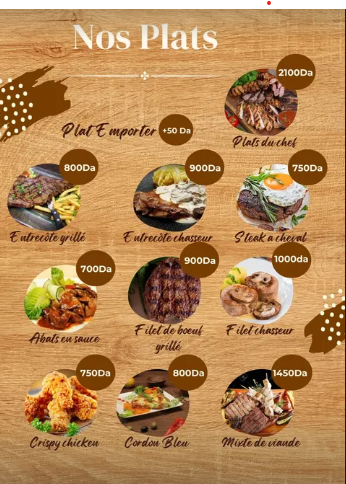
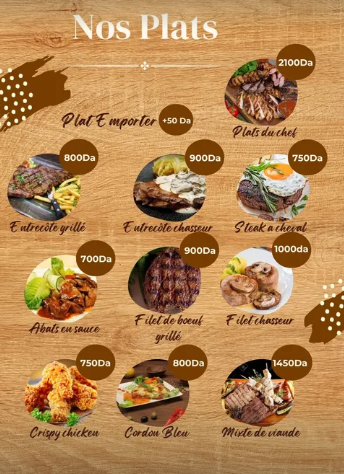
update: organize menu cards

diff --git a/src/components/MenuPage.tsx b/src/components/MenuPage.tsx
@@ -1,15 +1,14 @@
 import { useState } from 'react';
-import { Sparkles } from 'lucide-react';
-import { getMenuCategories } from '../data';
+import { MENU_IMAGE_GROUPS } from '../menuImageData';
 import { useLanguage } from '../context/LanguageContext';
-import FoodCard from './FoodCard';
 import MarqueeRibbon from './MarqueeRibbon';
+import MenuImageLayout from './MenuImageLayout';
 
 export default function MenuPage() {
   const { language, t } = useLanguage();
   const [selectedCategory, setSelectedCategory] = useState<string>('all');
 
-  const categories = getMenuCategories(language);
+  const categories = MENU_IMAGE_GROUPS;
 
   const filteredCategories =
     selectedCategory === 'all'
@@ -97,36 +96,7 @@ export default function MenuPage() {
 
       {/* Main Categories Section */}
       <main className="flex-1 max-w-7xl w-full mx-auto px-4 sm:px-6 md:px-12 py-12 sm:py-16">
-        {filteredCategories.map((category) => (
-          <section
-            key={category.id}
-            id={`category-${category.id}`}
-            className="mb-14 sm:mb-20 scroll-mt-24"
-          >
-            {/* Category Header: #4b1007 text with Yellow Background */}
-            <div className="bg-[#FCD306] text-[#4b1007] px-5 sm:px-8 py-3 sm:py-4 rounded-xl shadow-sm mb-6 sm:mb-8 flex flex-col sm:flex-row sm:items-center justify-between gap-2 border border-[#e6bd02]">
-              <div className="flex items-center gap-3">
-                <h2 className="font-novecento text-3xl sm:text-4xl md:text-5xl uppercase tracking-wider font-normal leading-none text-[#4b1007]">
-                  {category.name}
-                </h2>
-                <span className="text-xs sm:text-sm bg-[#4b1007] text-[#FCD306] px-2.5 py-0.5 rounded-md tracking-widest font-normal">
-                  {category.items.length} {t.menuPage.options}
-                </span>
-              </div>
-              <div className="flex items-center gap-2 text-[#4b1007] text-xs sm:text-sm md:text-base tracking-wider uppercase">
-                <Sparkles className="w-4 h-4 text-[#4b1007] hidden sm:inline" />
-                <span>{category.tagline}</span>
-              </div>
-            </div>
-
-            {/* Grid of Food Cards */}
-            <div className="grid grid-cols-1 sm:grid-cols-2 lg:grid-cols-3 xl:grid-cols-4 gap-6 sm:gap-8">
-              {category.items.map((item) => (
-                <FoodCard key={item.id} item={item} />
-              ))}
-            </div>
-          </section>
-        ))}
+        <MenuImageLayout groups={filteredCategories} />
 
         {/* Bottom CTA Box after all cards */}
         <div className="mt-16 sm:mt-24 mb-6 text-center bg-[#4b1007] text-white p-8 sm:p-12 rounded-2xl border border-[#350b05] shadow-2xl max-w-3xl mx-auto">

diff --git a/src/components/FoodCard.tsx b/src/components/FoodCard.tsx
@@ -1,61 +1,25 @@
-import { Star } from 'lucide-react';
-import { MenuItem } from '../types';
+import { MenuImageItem } from '../menuImageData';
 
 interface FoodCardProps {
   key?: string | number;
-  item: MenuItem;
+  item: MenuImageItem;
 }
 
 export default function FoodCard({ item }: FoodCardProps) {
   return (
     <article
       id={`menu-item-${item.id}`}
-      className="bg-transparent flex flex-col group"
+      className="bg-white border-2 border-[#8e7b6d] rounded-xl overflow-hidden flex flex-col group shadow-sm hover:shadow-md transition-shadow"
     >
-      {/* Image Container with hover zoom */}
-      <div className="w-full aspect-square rounded-2xl overflow-hidden bg-stone-200 shadow-sm transition-shadow group-hover:shadow-md relative">
+      <div className="w-full overflow-hidden bg-white relative">
         <img
           src={item.image}
-          alt={item.name}
-          referrerPolicy="no-referrer"
+          alt={item.alt}
           onError={(event) => {
-            event.currentTarget.src =
-              'https://images.unsplash.com/photo-1564419320461-6870880221ad?auto=format&fit=crop&w=800&q=80';
+            event.currentTarget.style.display = 'none';
           }}
-          className="w-full h-full object-cover object-center transform group-hover:scale-105 transition-transform duration-300"
+          className="block w-full h-auto object-contain transform group-hover:scale-[1.02] transition-transform duration-300"
         />
-      </div>
-
-      {/* Card Information - Strictly Bebas Neue */}
-      <div className="pt-3.5 flex flex-col flex-1">
-        <h3 className="text-xl sm:text-2xl text-[#4b1007] tracking-wider uppercase font-normal">
-          {item.name}
-        </h3>
-        <p className="font-inter text-stone-600 text-xs sm:text-sm mt-1 leading-snug tracking-normal line-clamp-2">
-          {item.description}
-        </p>
-
-        {/* Stronger stroke line on top of the stars and the price */}
-        <div className="mt-3.5 pt-2.5 border-t-2 border-[#8e7b6d] flex items-center justify-between">
-          <div
-            aria-label={`${item.rating} stars`}
-            className="flex text-[#b81414] space-x-1"
-          >
-            {[1, 2, 3, 4, 5].map((star) => (
-              <Star
-                key={star}
-                className={`w-4 h-4 ${
-                  star <= item.rating
-                    ? 'fill-[#b81414] text-[#b81414]'
-                    : 'text-stone-300 fill-transparent'
-                }`}
-              />
-            ))}
-          </div>
-          <span className="text-xl sm:text-2xl text-[#b81414] font-normal tracking-wide">
-            {item.price} DA
-          </span>
-        </div>
       </div>
     </article>
   );

diff --git a/src/components/MenuSection.tsx b/src/components/MenuSection.tsx
@@ -1,11 +1,8 @@
-import { Sparkles } from 'lucide-react';
-import { getMenuCategories } from '../data';
-import { useLanguage } from '../context/LanguageContext';
-import FoodCard from './FoodCard';
+import { MENU_IMAGE_GROUPS } from '../menuImageData';
+import MenuImageLayout from './MenuImageLayout';
 
 export default function MenuSection() {
-  const { language } = useLanguage();
-  const categories = getMenuCategories(language);
+  const categories = MENU_IMAGE_GROUPS;
 
   return (
     <section
@@ -27,43 +24,7 @@ export default function MenuSection() {
           </p>
         </div>
 
-        {/* Categories & Products */}
-        <div className="space-y-16 sm:space-y-20">
-          {categories.map((category) => (
-            <div
-              key={category.id}
-              id={`category-${category.id}`}
-              className="scroll-mt-28"
-            >
-              {/* Category Banner with Title and Inter-font Tagline Description */}
-              <div className="bg-[#FCD306] text-[#4b1007] px-5 sm:px-8 py-3.5 sm:py-4 rounded-xl shadow-sm mb-6 sm:mb-8 flex flex-col sm:flex-row sm:items-center justify-between gap-2 border border-[#e6bd02]">
-                <div className="flex items-center gap-3">
-                  <h3 className="font-novecento text-3xl sm:text-4xl md:text-5xl uppercase tracking-wider font-normal leading-none text-[#4b1007]">
-                    {category.name}
-                  </h3>
-                  <span className="text-xs sm:text-sm bg-[#4b1007] text-[#FCD306] px-2.5 py-0.5 rounded-md tracking-widest font-normal">
-                    {category.items.length} OPTIONS
-                  </span>
-                </div>
-
-                {/* Subtitle / Tagline in Inter typeface */}
-                <div className="flex items-center gap-2 text-[#4b1007]">
-                  <Sparkles className="w-4 h-4 text-[#4b1007] shrink-0 hidden sm:inline" />
-                  <p className="font-inter text-xs sm:text-sm font-medium leading-tight">
-                    {category.tagline}
-                  </p>
-                </div>
-              </div>
-
-              {/* Responsive Grid of Food Cards */}
-              <div className="grid grid-cols-1 sm:grid-cols-2 lg:grid-cols-3 xl:grid-cols-4 gap-6 sm:gap-8">
-                {category.items.map((item) => (
-                  <FoodCard key={item.id} item={item} />
-                ))}
-              </div>
-            </div>
-          ))}
-        </div>
+        <MenuImageLayout groups={categories} />
       </div>
     </section>
   );

diff --git a/src/components/MenuImageLayout.tsx b/src/components/MenuImageLayout.tsx
@@ -1,0 +1,76 @@
+import { Sparkles } from 'lucide-react';
+import { MenuImageGroup } from '../menuImageData';
+import FoodCard from './FoodCard';
+
+interface MenuImageLayoutProps {
+  groups: MenuImageGroup[];
+  optionsLabel?: string;
+}
+
+const ROWS = [
+  ['pizza', 'plats'],
+  ['tacos'],
+  ['sandwitch', 'entree', 'burgers'],
+];
+
+function GroupBlock({ group, span }: { key?: string; group: MenuImageGroup; span: string }) {
+  const itemGridColumns =
+    group.id === 'pizza'
+      ? 'sm:grid-cols-2 lg:grid-cols-2'
+      : group.id === 'tacos'
+        ? 'lg:grid-cols-3'
+        : 'lg:grid-cols-1';
+
+  return (
+    <section id={`category-${group.id}`} className={`scroll-mt-28 ${span}`}>
+      <div className="bg-[#FCD306] text-[#4b1007] px-5 sm:px-8 py-3.5 sm:py-4 rounded-xl shadow-sm mb-6 border border-[#e6bd02] flex items-center justify-between gap-3">
+        <h3 className="font-novecento text-3xl sm:text-4xl md:text-5xl uppercase tracking-wider font-normal leading-none">
+          {group.name}
+        </h3>
+        <div className="flex items-center gap-2 text-xs sm:text-sm uppercase tracking-wider">
+          <Sparkles className="w-4 h-4 hidden sm:inline" />
+          <span>{group.tagline}</span>
+        </div>
+      </div>
+      <div className={`grid grid-cols-1 ${itemGridColumns} gap-6 sm:gap-8 items-start`}>
+        {group.items.map((item) => (
+          <FoodCard key={item.id} item={item} />
+        ))}
+      </div>
+    </section>
+  );
+}
+
+export default function MenuImageLayout({ groups }: MenuImageLayoutProps) {
+  const visibleGroups = new Map(groups.map((group) => [group.id, group]));
+
+  return (
+    <div className="space-y-12 sm:space-y-16">
+      {ROWS.map((row, rowIndex) => {
+        const rowGroups = row
+          .map((id) => visibleGroups.get(id))
+          .filter((group): group is MenuImageGroup => Boolean(group));
+
+        if (!rowGroups.length) return null;
+
+        return (
+          <div key={rowIndex} className="grid grid-cols-1 lg:grid-cols-3 gap-6 sm:gap-8 items-start">
+            {rowGroups.map((group) => (
+              <GroupBlock
+                key={group.id}
+                group={group}
+                span={
+                  group.id === 'tacos'
+                    ? 'lg:col-span-3'
+                    : group.id === 'pizza'
+                      ? 'lg:col-span-2'
+                    : 'lg:col-span-1'
+                }
+              />
+            ))}
+          </div>
+        );
+      })}
+    </div>
+  );
+}

diff --git a/src/menuImageData.ts b/src/menuImageData.ts
@@ -1,0 +1,58 @@
+export interface MenuImageItem {
+  id: string;
+  image: string;
+  alt: string;
+}
+
+export interface MenuImageGroup {
+  id: string;
+  name: string;
+  tagline: string;
+  items: MenuImageItem[];
+}
+
+export const MENU_IMAGE_GROUPS: MenuImageGroup[] = [
+  {
+    id: 'burgers',
+    name: 'BURGERS',
+    tagline: 'NOS BURGERS',
+    items: [{ id: 'burger-menu', image: '/assets/menu-images/burger/image.png', alt: 'Menu burgers avec les prix' }],
+  },
+  {
+    id: 'pizza',
+    name: 'PIZZA',
+    tagline: 'NOS PIZZA',
+    items: [
+      { id: 'pizza-menu-1', image: '/assets/menu-images/pizza/1.png', alt: 'Menu pizza avec les prix' },
+      { id: 'pizza-menu-2', image: '/assets/menu-images/pizza/2.png', alt: 'Menu pizza avec les prix' },
+    ],
+  },
+  {
+    id: 'plats',
+    name: 'PLATS',
+    tagline: 'NOS PLATS',
+    items: [{ id: 'plats-menu', image: '/assets/menu-images/plats/image.png', alt: 'Menu plats avec les prix' }],
+  },
+  {
+    id: 'tacos',
+    name: 'TACOS',
+    tagline: 'NOS TACOS',
+    items: [
+      { id: 'tacos-menu-1', image: '/assets/menu-images/tacos/1.png', alt: 'Menu tacos avec les prix' },
+      { id: 'tacos-menu-2', image: '/assets/menu-images/tacos/2.png', alt: 'Menu tacos avec les prix' },
+      { id: 'tacos-menu-3', image: '/assets/menu-images/tacos/3.png', alt: 'Menu tacos avec les prix' },
+    ],
+  },
+  {
+    id: 'sandwitch',
+    name: 'SANDWICHS',
+    tagline: 'NOS SANDWICHS',
+    items: [{ id: 'sandwitch-menu', image: '/assets/menu-images/sandwitch/image.png', alt: 'Menu sandwichs avec les prix' }],
+  },
+  {
+    id: 'entree',
+    name: 'ENTRÉES',
+    tagline: 'NOS ENTRÉES',
+    items: [{ id: 'entree-menu', image: '/assets/menu-images/entrée/image.png', alt: 'Menu entrées avec les prix' }],
+  },
+];
